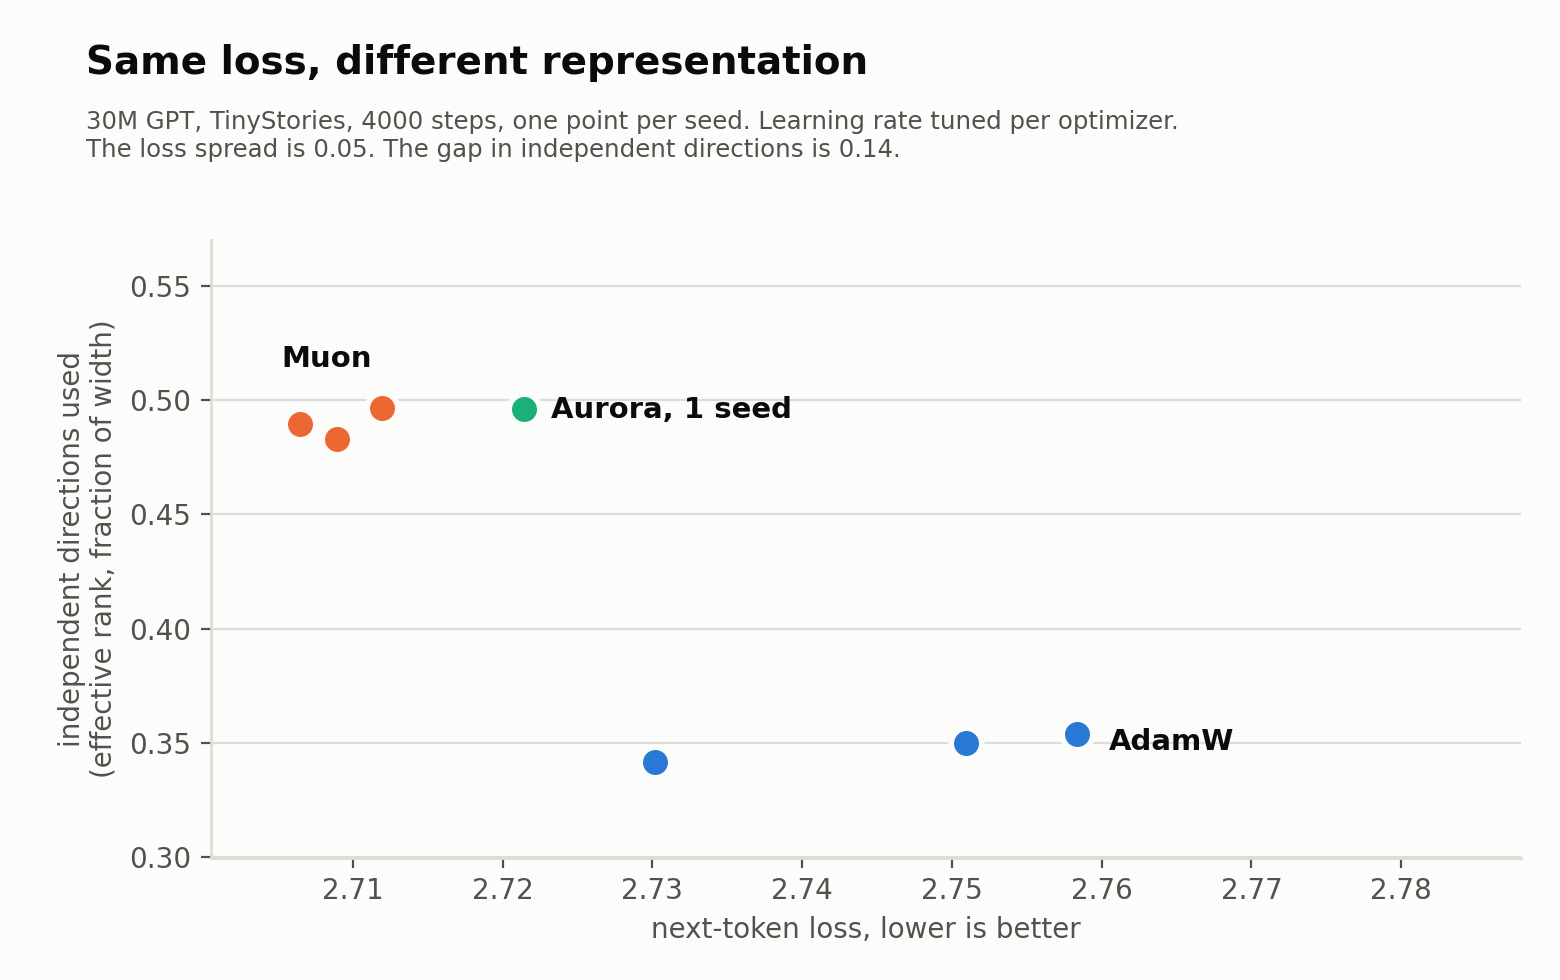
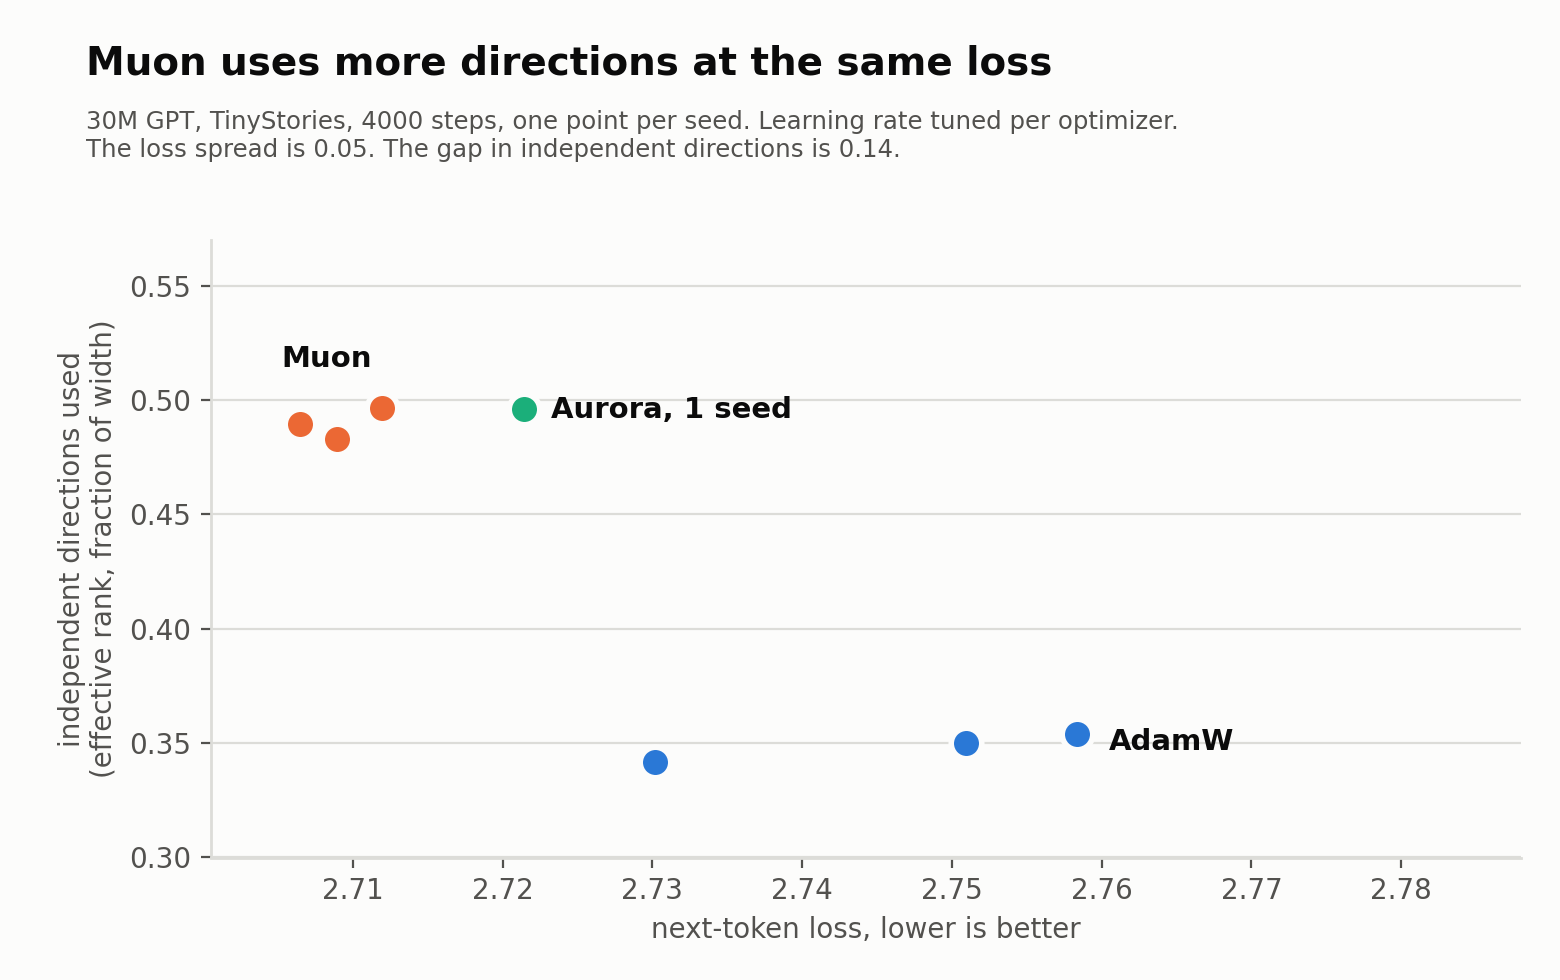
UPDATED DOC

Changed region(s): [[0.0615, 0.0306, 0.6769, 0.0918]]

diff --git a/experiments/plot_neurons.py b/experiments/plot_neurons.py
@@ -1,0 +1,102 @@
+"""Render every hidden unit of an evolved genome next to an SGD one.
+
+The original results/genome_neurons_*.png pair had no saved generator, so it
+could not be regenerated or retitled. This rebuilds it from
+data/fer_genome/*.npz, side by side in one figure so the two are compared
+directly. Run from the repo root:
+    python experiments/plot_neurons.py --target skull
+
+Method, following the FER paper: feed the coordinate grid through the network and
+draw each hidden unit's activation as an image. Red is positive, blue is
+negative, white is zero, on a shared scale of -1 to 1. A unit that runs past that
+range fills solid. One column per unit, one row per layer.
+"""
+import argparse
+import os
+import sys
+
+import matplotlib
+matplotlib.use("Agg")
+import matplotlib.pyplot as plt
+import numpy as np
+
+HERE = os.path.dirname(os.path.abspath(__file__))
+ROOT = os.path.abspath(os.path.join(HERE, ".."))
+sys.path.insert(0, os.path.join(ROOT, "src"))
+from fer_cppn import load_genome  # noqa: E402
+
+INK, INK2 = "#0b0b0b", "#52514e"
+SURFACE = "#fcfcfb"
+BORDER = np.array([0.62, 0.62, 0.60])  # gutter, so solid cells stay separable
+
+RES = 56       # pixels per unit
+GUTTER = 3     # white space between units
+FRAME = 1      # border thickness around each unit
+
+
+def unit_images(name, res=RES):
+    """Return (n_layers, width, res, res) of post-activation unit responses."""
+    net = load_genome(name)
+    X = net.coordinate_grid(res)
+    _, (_, As, _) = net.forward(X, cache=True)
+    acts = As[1:]                      # drop the input, keep hidden layers
+    grid = np.stack([a.reshape(res, res, -1).transpose(2, 0, 1) for a in acts])
+    return grid                        # (layers, width, res, res)
+
+
+def tile(grid, cmap="bwr"):
+    """Lay units out as one RGB image, rows are layers and columns are units."""
+    n_layers, width = grid.shape[:2]
+    cell = RES + 2 * FRAME
+    step = cell + GUTTER
+    canvas = np.ones((n_layers * step - GUTTER, width * step - GUTTER, 3))
+    lut = plt.get_cmap(cmap)
+    for li in range(n_layers):
+        for ui in range(width):
+            img = np.clip(grid[li, ui], -1.0, 1.0)
+            rgb = lut((img + 1.0) / 2.0)[..., :3]
+            y, x = li * step, ui * step
+            canvas[y:y + cell, x:x + cell] = BORDER
+            canvas[y + FRAME:y + FRAME + RES, x + FRAME:x + FRAME + RES] = rgb
+    return canvas
+
+
+def main(target):
+    evolved = unit_images(target)
+    sgd = unit_images(f"sgd_{target}")
+    n_layers, width = evolved.shape[:2]
+
+    panels = [("Evolved by Picbreeder", tile(evolved)),
+              ("Trained by gradient descent", tile(sgd))]
+
+    fig, axes = plt.subplots(1, 2, figsize=(13.6, 4.6))
+    for ax, (name, canvas) in zip(axes, panels):
+        ax.imshow(canvas, interpolation="nearest")
+        ax.set_xticks([]); ax.set_yticks([])
+        for side in ax.spines.values():
+            side.set_visible(False)
+        ax.set_title(name, loc="left", fontsize=11.5, fontweight="bold",
+                     color=INK, pad=8)
+
+    fig.text(0.043, 0.965, "Both networks draw the same skull",
+             ha="left", va="top", fontsize=14, fontweight="bold", color=INK)
+    fig.text(0.043, 0.905,
+             f"Every hidden unit of both networks fitting the {target}. One "
+             f"column per unit, one row per layer, {n_layers} layers of "
+             f"{width} units.\nRed is positive, blue is negative, white is "
+             "zero. Empty cells on the left are units the evolved network "
+             "does not use.",
+             ha="left", va="top", fontsize=8.8, color=INK2)
+    fig.subplots_adjust(top=0.735, bottom=0.02, left=0.02, right=0.985,
+                        wspace=0.06)
+
+    out = os.path.join(ROOT, "results", f"fig_neurons_{target}.png")
+    fig.savefig(out, dpi=200, facecolor=SURFACE)
+    print("wrote", out)
+
+
+if __name__ == "__main__":
+    ap = argparse.ArgumentParser()
+    ap.add_argument("--target", default="skull",
+                    choices=["skull", "apple", "butterfly"])
+    main(ap.parse_args().target)

diff --git a/experiments/viz_qualitative.py b/experiments/viz_qualitative.py
@@ -99,9 +99,11 @@ def plot_feature_maps(target, init_scale):
         axes[gi, 0].set_ylabel(f"{label}\nloss={loss:.4f}\nsat={sat:.2f}",
                                fontsize=7, rotation=0, ha="right", va="center",
                                labelpad=28)
-    fig.suptitle(f"Last-hidden neuron feature maps  —  target: {target}  "
-                 "(solid = saturated/clipped; graded = structured. "
-                 "top row fractures, bottom stays structured)", fontsize=8)
+    # No claim about which row looks more structured. On this target the two rows
+    # look alike, so the figure does not support one.
+    fig.suptitle(f"Every unit of the last hidden layer. Target: {target}. "
+                 "A solid square is a unit that has saturated. "
+                 "A graded square still varies across the image.", fontsize=8)
     fig.subplots_adjust(left=0.10, right=0.995, top=0.86, bottom=0.02,
                         wspace=0.06, hspace=0.06)
     out = os.path.join(ROOT, "results", f"qual_featuremaps_{target}.png")
@@ -136,8 +138,9 @@ def plot_weight_sweeps(target, init_scale, n_weights=5, n_steps=7, r=0.6, seed=3
                     ax.set_ylabel(f"{label[:10]}\nw{wi}", fontsize=6)
                 if wi == 0 and gi == 0:
                     ax.set_title(f"t={t:+.2f}", fontsize=6)
-    fig.suptitle(f"Single-weight sweeps (layer 0)  —  target: {target}  "
-                 f"(top {n_weights} rows = {GEOMS[0][0]}, bottom = {GEOMS[1][0]})",
+    fig.suptitle(f"Moving one weight in the first layer. Target: {target}.\n"
+                 f"Top {n_weights} rows are {GEOMS[0][0]}. "
+                 f"Bottom {n_weights} rows are {GEOMS[1][0]}.",
                  fontsize=9)
     fig.tight_layout()
     out = os.path.join(ROOT, "results", f"qual_weightsweeps_{target}.png")

diff --git a/experiments/plot_headline.py b/experiments/plot_headline.py
@@ -105,7 +105,7 @@ axl.set_title("Deeper helps Muon only", loc="left", fontsize=11.5,
 axr.set_title("Wider helps AdamW only", loc="left", fontsize=11.5,
               fontweight="bold", color=INK, pad=8)
 
-fig.text(0.052, 0.955, "Two different ways of buying independent directions",
+fig.text(0.052, 0.955, "Two ways of buying independent directions",
          ha="left", va="top", fontsize=14, fontweight="bold", color=INK)
 fig.text(0.052, 0.885,
          "One seed per point, 2500 steps, one learning rate per optimizer. "
@@ -142,7 +142,7 @@ ax.set_xlabel("next-token loss, lower is better")
 ax.set_ylabel("independent directions used\n(effective rank, fraction of width)")
 ax.set_ylim(0.30, 0.57)
 ax.set_xlim(2.7005, 2.788)
-fig2.text(0.055, 0.955, "Same loss, different representation",
+fig2.text(0.055, 0.955, "Muon uses more directions at the same loss",
           ha="left", va="top", fontsize=14, fontweight="bold", color=INK)
 fig2.text(0.055, 0.888,
           "30M GPT, TinyStories, 4000 steps, one point per seed. Learning rate "

diff --git a/README.md b/README.md
@@ -23,7 +23,7 @@ information into a few directions that overlap.
 Transformer code is in [llm_probe/](llm_probe/). The small image-fitting model
 that started the project is in [src/](src/) and [experiments/](experiments/).
 
-## Same loss, different representation
+## Muon uses more directions at the same loss
 
 Three seeds each, 4000 steps, learning rates tuned so both optimizers land on
 the same loss.
@@ -188,6 +188,19 @@ The project started smaller: fit one fixed image with a small network, vary only
 the optimizer, measure how brittle the result is. Five paired seeds, three
 target images, every run reaching the same near-zero loss.
 
+Brittleness is easier to see than to define. Take one weight in the first layer,
+sweep it away from its trained value, and render the image at each step.
+
+![Ten rows of skull images. The top five rows, trained with Adam, break into
+swirls and ripples as one weight moves. The bottom five rows, trained with
+normalized gradient descent, keep the skull intact across the same
+sweep.](results/qual_weightsweeps_skull.png)
+
+The top five rows are Adam. Moving a single weight shatters the picture. The
+bottom five rows are normalized gradient descent at the same near-zero loss.
+The skull stays a skull. Both fit the target equally well, so this is not a
+quality difference. It is a difference in how the picture is stored.
+
 Here the lever is per-coordinate scaling. Adam divides each weight's update by
 that weight's own running gradient size. Removing that single feature accounts
 for the whole effect.
@@ -237,11 +250,23 @@ spread-out representation looks like. The sign is flipped from the hypothesis.
 
 **Neuron smoothness passes the evolved-versus-SGD test.** Render each hidden
 unit of an evolved Picbreeder network and of an SGD network fit to the same
-image. The evolved units are smoother (total variation 1.5x to 1.8x lower) and
-much lower frequency (up to 136x less high-frequency energy on one target), on
-3 of 3 targets. Weight-level measures get this backwards because the evolved
-network is about 3% dense and the SGD one is 100% dense, so anything measured
-per weight reads sparsity instead of structure.
+image. This is the clearest picture in the repo of what the whole project is
+chasing.
+
+![Two grids of hidden units. On the left, the evolved network, where each unit is
+a simple smooth pattern such as a gradient, a round blob, or a set of bands, and
+many cells are empty. On the right, the gradient descent network, where every
+unit is a busy swirl.](results/fig_neurons_skull.png)
+
+The evolved units are things you can name. A gradient, a blob, a stripe pattern.
+The SGD units are swirls. Both networks draw the same skull. Only one of them
+builds it out of parts.
+
+The numbers agree with the pictures. Evolved units have 1.5x to 1.8x lower total
+variation and up to 136x less high-frequency energy, on 3 of 3 targets.
+Weight-level measures get this backwards because the evolved network is about 3%
+dense and the SGD one is 100% dense, so anything measured per weight reads
+sparsity instead of structure.
 
 Source: `llm_probe/validate_metric.py`, `experiments/run_ufr_ceiling.py`.
 
@@ -342,9 +367,14 @@ python experiments/run_multiseed.py --target apple --all
 python experiments/viz_qualitative.py --target skull # renders each hidden unit
 ```
 
-The two figures above are regenerated from the raw result files by
-`python experiments/plot_headline.py`, so they cannot drift from the numbers in
-the tables.
+Every figure in this file is regenerable, so none of them can drift from the
+numbers in the tables:
+
+```bash
+python experiments/plot_headline.py                  # the two transformer figures
+python experiments/plot_neurons.py --target skull    # evolved and SGD hidden units
+python experiments/viz_qualitative.py --target skull # the single-weight sweeps
+```
 
 ## Where the numbers live
 
@@ -357,7 +387,7 @@ the tables.
 | weight-spectrum editing | `llm_probe/results_pod/surgery/` |
 | higher-order independence penalty | `llm_probe/results_pod/ho/` |
 | image model, all optimizers | `results/stats.txt`, `results/multiseed*.json` |
-| rendered hidden units | `results/genome_neurons_*.png` |
+| rendered hidden units | `results/fig_neurons_skull.png` |
 
 ## References
 
